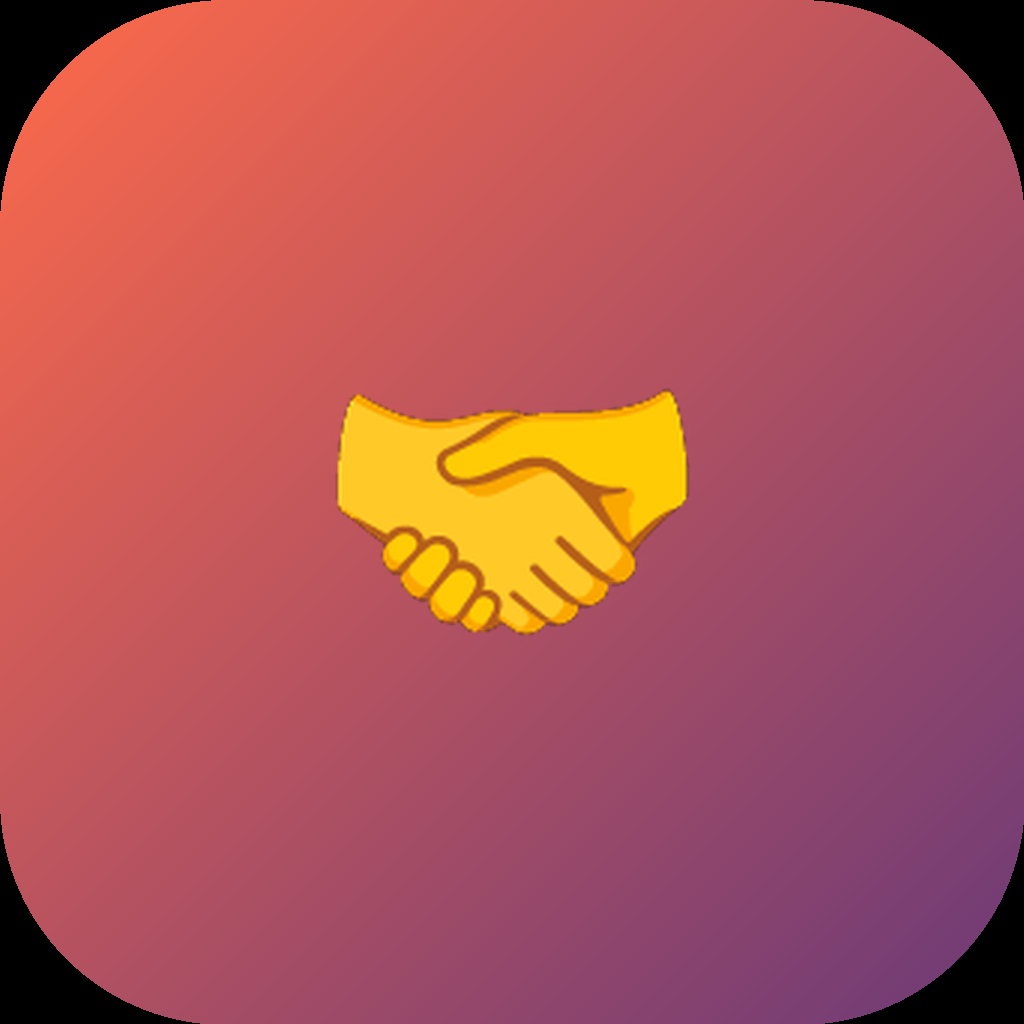
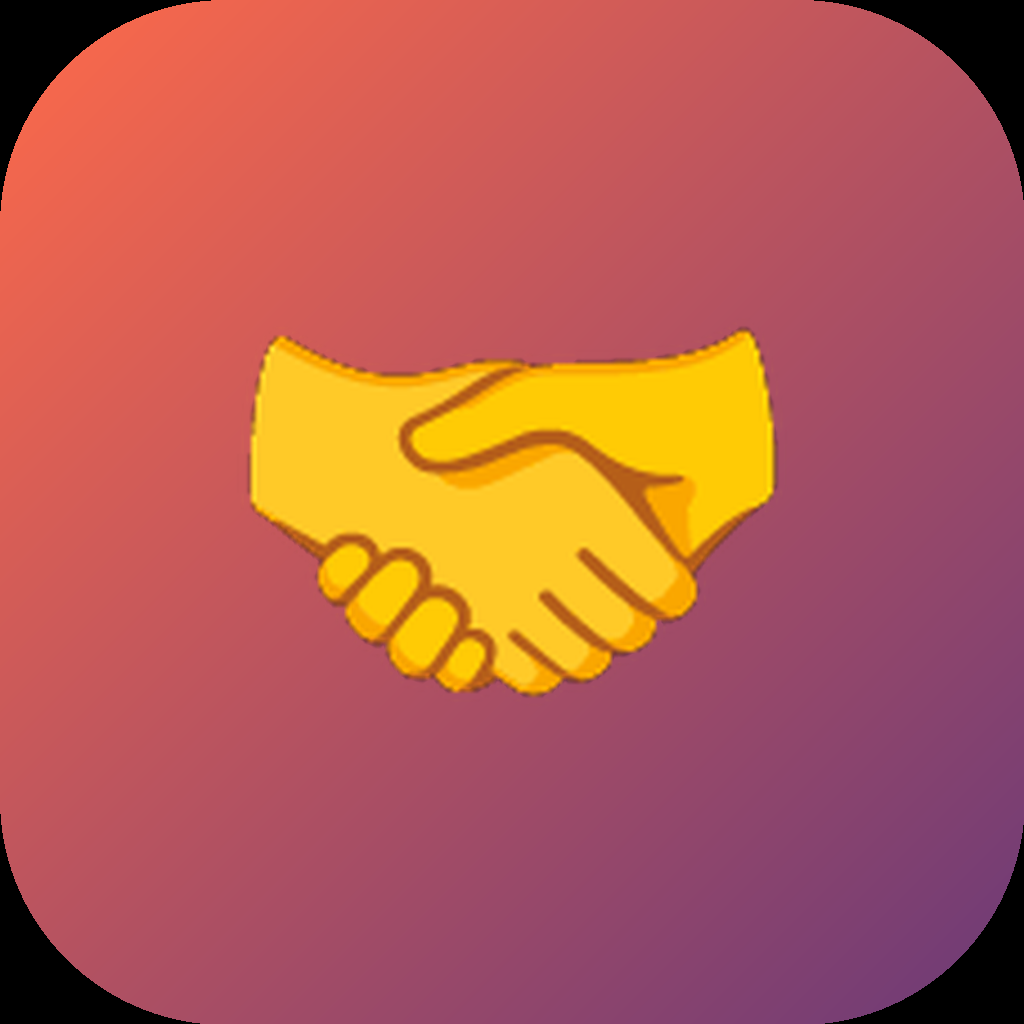
kashikari: アプリアイコンの手のマークを大きく(78回目)
generate_icons.pyのzoomを3→4.5に上げ、icon.png/favicon.pngの
🤝マークを一回り大きく表示するようにした。

Claude-Session: https://claude.ai/code/session_016w6H5fipiVvbtfX7sgu87W

Changed region(s): [[0.2188, 0.3125, 0.7812, 0.6875]]

diff --git a/personal-side-projects/kashikari/mobile/scripts/generate_icons.py b/personal-side-projects/kashikari/mobile/scripts/generate_icons.py
@@ -49,16 +49,19 @@ def emoji_layer(size, zoom=3):
     bbox = draw.textbbox((0, 0), EMOJI, font=font, embedded_color=True)
     w, h = bbox[2] - bbox[0], bbox[3] - bbox[1]
     draw.text(((size - w) / 2 - bbox[0], (size - h) / 2 - bbox[1]), EMOJI, font=font, embedded_color=True)
-    layer = layer.resize((size * zoom, size * zoom), Image.LANCZOS)
-    off = size * (zoom - 1) // 2
+    layer = layer.resize((int(size * zoom), int(size * zoom)), Image.LANCZOS)
+    off = int(size * (zoom - 1) // 2)
     return layer.crop((off, off, off + size, off + size))
 
 
 def make_icon():
+    # 「手のマークをもう少し大きく」という指摘を受け、zoomを3→4.5に
+    # 上げた(emoji_layerは対角トリミングで拡大する仕組みなので、
+    # zoomを上げるほど絵文字がキャンバスいっぱいに大きく見える)。
     bg = gradient_bg(SIZE, ACCENT, PLUM).convert("RGBA")
     rounded = Image.new("RGBA", (SIZE, SIZE), (0, 0, 0, 0))
     rounded.paste(bg, (0, 0), rounded_mask(SIZE, 0.22))
-    out = Image.alpha_composite(rounded, emoji_layer(SIZE))
+    out = Image.alpha_composite(rounded, emoji_layer(SIZE, zoom=4.5))
     out.convert("RGB").save(f"{OUT_DIR}/icon.png")
     out.convert("RGB").resize((256, 256), Image.LANCZOS).save(f"{OUT_DIR}/favicon.png")
 
